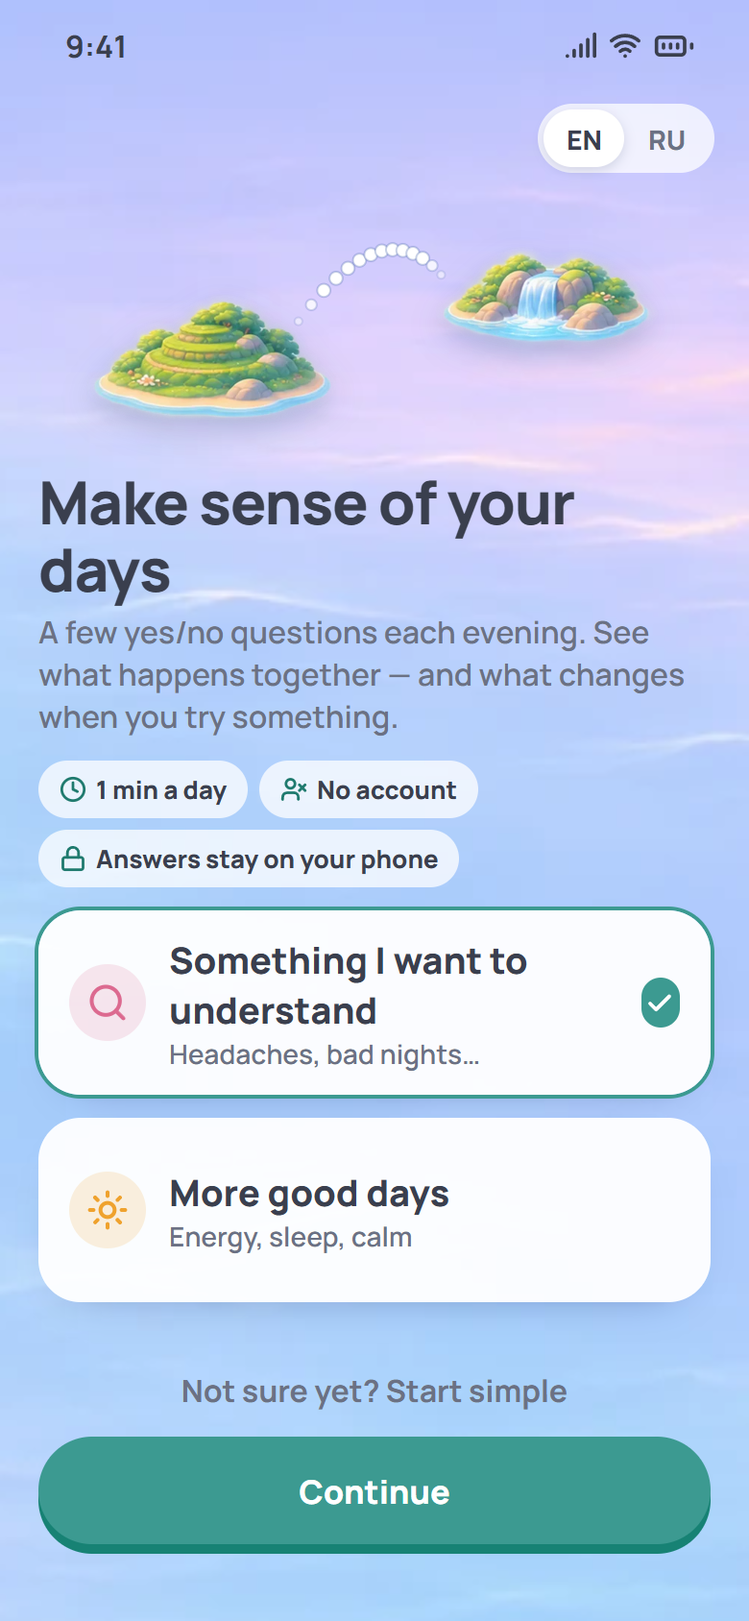
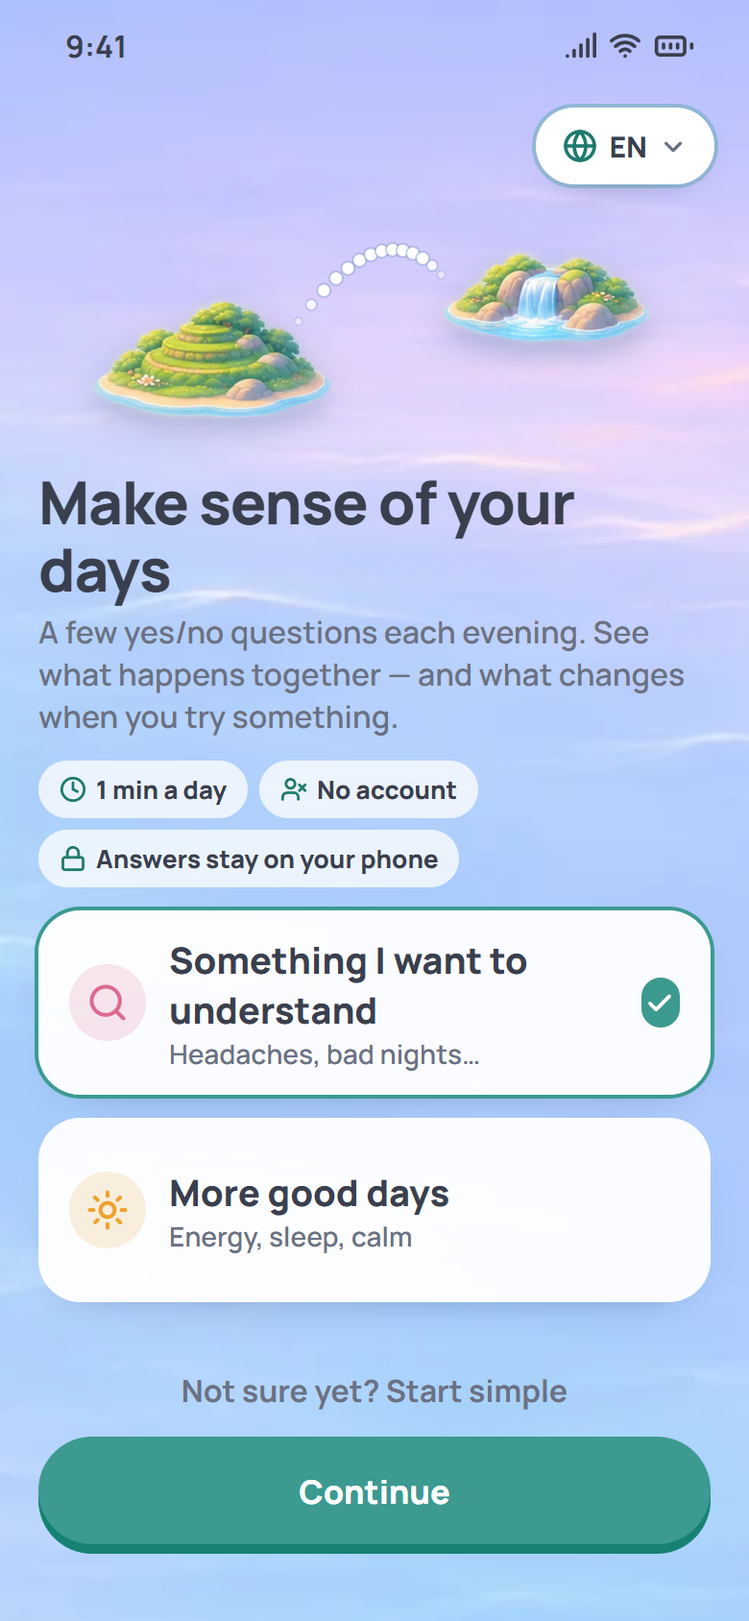
English by default outside Russia; a globe button for languages (v75)
Her note: new installs outside Russia start in English; Russian only on a
Russian-language phone in Russia (a region RU in its locales, or a Russian time
zone). People already using the app keep the phone's language, so nothing
flips after the update. The first screen shows one softly ringed globe
button 'EN'; the list (English, Русский) opens only on tap. v6 boards and
the GPT folder show the same button.

Changed region(s): [[0.7077, 0.0616, 0.9538, 0.1232]]

diff --git a/src/components/OnboardingV2.tsx b/src/components/OnboardingV2.tsx
@@ -5,10 +5,10 @@
 //   that day's questions → first light → who sails with you → Today
 import { useMemo, useState } from "react";
 import { useTranslation } from "react-i18next";
-import { ArrowLeft, ArrowRight, Check, Link2, MoonStar, Repeat, Sun, UserRound } from "lucide-react";
+import { ArrowLeft, ArrowRight, Check, ChevronDown, Globe, Link2, MoonStar, Repeat, Sun, UserRound } from "lucide-react";
 import { cn } from "@/lib/utils";
 import { haptics } from "@/lib/haptics";
-import { getLanguage, setLanguage } from "@/lib/i18n";
+import { getLanguage, setLanguage, SUPPORTED_LANGUAGES } from "@/lib/i18n";
 import { AVATARS, DEFAULT_AVATAR, avatarUrl, getAvatar, setAvatar } from "@/lib/avatar";
 import { art, artOf } from "@/lib/globeArt";
 import { islandName, islandOf, mapPicFor, type IslandId } from "@/lib/islands";
@@ -36,16 +36,31 @@ const mapPics = (name: string): [string, string] => [mapPicFor(name, false), map
 export const WelcomeScreen = ({ onStart }: { onStart: () => void }) => {
   const { t } = useTranslation();
   const [lang, setLang] = useState(getLanguage() === "ru" ? "ru" : "en");
-  const pick = (l: "en" | "ru") => { haptics.tap(); setLang(l); setLanguage(l); };
+  const [langOpen, setLangOpen] = useState(false);
+  const pick = (l: "en" | "ru") => { haptics.tap(); setLang(l); setLanguage(l); setLangOpen(false); };
   const who = avatarUrl(getAvatar() ?? DEFAULT_AVATAR);
   return (
     <Page>
-      <div className="flex justify-end pt-4">
-        <div className="seg" role="group" aria-label="Language">
-          {(["en", "ru"] as const).map((l) => (
-            <button key={l} type="button" onClick={() => pick(l)} aria-pressed={lang === l} className={cn("chip", lang === l && "is-on")}>{l.toUpperCase()}</button>
-          ))}
-        </div>
+      {/* the language: one globe button, lit softly so it's noticed; the list only on tap
+          (her note, Nov 6 2026: "не показывать, что есть ещё русский — только по кнопке") */}
+      <div className="relative flex justify-end pt-4">
+        <button type="button" onClick={() => { haptics.tap(); setLangOpen((v) => !v); }} aria-haspopup="listbox" aria-expanded={langOpen} aria-label={t("settings.language")}
+          className="lang-btn surface flex h-10 items-center gap-1.5 rounded-full px-3.5 text-[15px] font-bold">
+          <Globe className="h-[18px] w-[18px] text-[hsl(var(--coin-teal))]" strokeWidth={2.4} />
+          {lang.toUpperCase()}
+          <ChevronDown className={cn("h-4 w-4 text-muted-foreground transition-transform", langOpen && "rotate-180")} strokeWidth={2.6} />
+        </button>
+        {langOpen && (
+          <div role="listbox" aria-label={t("settings.language")} className="absolute right-0 top-[60px] z-20 w-[200px] bg-white dark:bg-[hsl(var(--surface))] overflow-hidden rounded-[18px] py-1 shadow-[0_14px_34px_-14px_rgba(20,40,90,.5)] animate-fade-in">
+            {SUPPORTED_LANGUAGES.map((l) => (
+              <button key={l.code} type="button" role="option" aria-selected={lang === l.code} onClick={() => pick(l.code)}
+                className="flex h-12 w-full items-center justify-between px-4 text-left text-[16px] font-bold">
+                {l.native}
+                {lang === l.code && <Check className="h-4 w-4 text-[hsl(var(--coin-teal))]" strokeWidth={3} />}
+              </button>
+            ))}
+          </div>
+        )}
       </div>
       <div className="relative mx-auto mt-6 h-[300px] w-full max-w-[360px]" aria-hidden="true">
         <Pic src={isle("11_sakura")} className="onb-float absolute left-[2%] top-[6%] w-[40%]" />

diff --git a/src/lib/i18n.ts b/src/lib/i18n.ts
@@ -23,6 +23,50 @@ export const SUPPORTED_LANGUAGES: { code: SupportedLanguage; name: string; nativ
 ];
 
 const detector = new LanguageDetector();
+
+// Russia's time zones (IANA), to tell a phone in Russia from a Russian-language
+// phone elsewhere.
+const RU_ZONES = new Set([
+  "Europe/Moscow", "Europe/Kaliningrad", "Europe/Samara", "Europe/Volgograd", "Europe/Kirov", "Europe/Astrakhan",
+  "Europe/Saratov", "Europe/Ulyanovsk", "Asia/Yekaterinburg", "Asia/Omsk", "Asia/Novosibirsk", "Asia/Barnaul",
+  "Asia/Tomsk", "Asia/Novokuznetsk", "Asia/Krasnoyarsk", "Asia/Irkutsk", "Asia/Chita", "Asia/Yakutsk", "Asia/Khandyga",
+  "Asia/Vladivostok", "Asia/Ust-Nera", "Asia/Magadan", "Asia/Sakhalin", "Asia/Srednekolymsk", "Asia/Kamchatka", "Asia/Anadyr",
+]);
+/** The phone looks like it is in Russia: a region RU in its locales, or a Russian time zone. */
+export const phoneInRussia = (): boolean => {
+  try {
+    const locales = [...(navigator.languages ?? []), navigator.language, Intl.DateTimeFormat().resolvedOptions().locale].filter(Boolean);
+    if (locales.some((l) => /[-_]RU\b/i.test(l))) return true;
+    return RU_ZONES.has(Intl.DateTimeFormat().resolvedOptions().timeZone);
+  } catch {
+    return false;
+  }
+};
+/** Someone who already used the app keeps the old rule (the phone's language), so
+ *  nobody's language flips after an update. */
+const hasHistory = (): boolean => {
+  try {
+    const t = localStorage.getItem("memap_trackers");
+    return !!t && t !== "[]";
+  } catch {
+    return false;
+  }
+};
+// First language for a new install (her note, Nov 6 2026): English everywhere, except
+// a Russian-language phone in Russia. Other languages are behind the globe button.
+detector.addDetector({
+  name: "memapRegion",
+  lookup() {
+    try {
+      const ru = (navigator.language || "").toLowerCase().startsWith("ru");
+      if (hasHistory()) return ru ? "ru" : "en";
+      return ru && phoneInRussia() ? "ru" : "en";
+    } catch {
+      return "en";
+    }
+  },
+  cacheUserLanguage() {},
+});
 detector.addDetector({
   name: "memapStorage",
   lookup() {
@@ -77,7 +121,7 @@ void i18n
     // languages and for strings without bracket patterns.
     postProcess: ["polishRu"],
     detection: {
-      order: ["memapStorage", "navigator"],
+      order: ["memapStorage", "memapRegion"],
       // No auto-cache on detection. We only want LANGUAGE_KEY + EXPLICIT_LANGUAGE_KEY
       // written when the user explicitly picks via setLanguage().
       caches: [],

diff --git a/src/index.css b/src/index.css
@@ -2374,6 +2374,8 @@ html[data-ui="new"][data-theme="aurora-light"] { --foreground: 226 15% 27%; --mu
 html[data-ui="new"][data-theme="aurora-light"] { --strong: 348 70% 69%; --strong-foreground: 0 0% 100%; --balanced: 146 45% 60%; --balanced-foreground: 150 50% 18%; --data-a: 232 62% 62%; --data-b: 36 86% 56%; }
 html[data-ui="new"][data-theme="aurora"] { --strong: 348 78% 73%; --strong-foreground: 348 60% 14%; --balanced: 146 48% 58%; --balanced-foreground: 150 60% 10%; --data-a: 232 85% 74%; --data-b: 38 90% 62%; }
 /* a link's sign on its route: opens the link card (LinkSheet) */
+/* the language button on the first screen: a soft teal ring so it's noticed (Nov 6 2026) */
+.lang-btn { box-shadow: 0 0 0 2px hsl(var(--coin-teal) / 0.35), 0 8px 18px -12px rgba(20, 40, 90, .45); }
 .link-chip { width: 34px; height: 34px; border-radius: 17px; background: #fff; color: hsl(var(--data-a)); display: flex; align-items: center; justify-content: center;
   box-shadow: 0 6px 14px -8px rgba(20, 50, 90, .55); transition: transform .12s ease-out; }
 button.link-chip:active { transform: scale(.92); }

diff --git a/VERSIONS.md b/VERSIONS.md
@@ -8,7 +8,7 @@
 | **Сейчас в App Store (1.7.9)** | ветка `main` и метка `v1.7.9-live` (к ней можно откатиться) | — |
 | 1.8.0 (не собиралась) | ветка `release/1.8.0` | — |
 | **Розовая версия со стикерами** (архив от 31 окт. 2026) | метка `archive/sticker-diary-2026-10-31`, ветка `design/malu-world` | https://claude.ai/artifact/NFmgCod55uLGoCq77j4stD — не перезаписываем |
-| **Новая версия Aurora** (в работе) | ветка `design/aurora-ux`; снимки — метки `aurora/v16` … `aurora/v74`… (v25 = первая сборка 1.8.0 для TestFlight; v26 = новый глобус: её нарисованная планета и острова; v27 = плоская карта на её планете с новыми островами и следами, Today на её море с огоньками и лодкой; v28 = звуки выключены (вместо них вибрация), путь листается ровно с одним морем, зум глобуса щипком, новые вопросы к пройденному острову — отдельным шагом у лодки; v29 = путь как у Duolingo: фонарики змейкой без подписей, пузырь Start над её шагом, карточка по нажатию, обычная прокрутка; v30 = огоньки без значков, все круглые; v31 = правило «один огонёк = один вечер»: 7 огоньков и сундук в неделе, части вечера — кольцом и списком в карточке; фон Today снова стоит на месте; v32 = фон Today как на карте (открытое море её планеты), без белой полоски между огоньками, у каждого огонька подпись; v33 = исправлен вылет глобуса, шаги снова кружками со значками (объёмные, как Duolingo), отчёт вместо сундука, связи пунктиром, новые цвета календаря и графиков, первые и пустые экраны в новом стиле; v34 = все острова растут по 4 стадиям от вечеров, на пути сам появляется «остров вырос», в карточке острова его стадия; v35 = нажатие на пунктир открывает карточку связи: что с чем, k из n раз, честная строка, график; v36 = погода по одному правилу с маяками и с объяснением «почему» в карточке острова; v37 = вкладка World вместо Map, пропущенный день — кнопкой сбоку, не шагом на пути; v38 = лестница роста в карточке острова: все 4 стадии, во что он вырастет; v39 = Action points: сначала действие, «I'll try / Show / Not for me», «I'll try» запускает тест на неделю, «still taking shape» вместо «all calm» без данных; один набор кнопок и переключателей во всех экранах, без зелёного фона и золотых рамок; v40 = Notes на том же море, что Today, без плашки за заголовком, заметки белыми карточками; одна шкала у точки действия в списке, на карточке и в «Show», совпадает с тёмными точками дней; v41 = «день — это кружок»: квадратики и полоски дней стали кружками, цвета по одному правилу (индиго — тяжёлый, лавандовый — спокойный, серый — без ответа, золото — вечер сделан), заметка — значком; исправлен переключатель Yes/No в карточке прошлого дня; v42 = сокровища на островах (карта и глобус), следующее — бледным, «Сокровища здесь» в карточке острова; в отчёте связь вместо моста и рост островов по стадиям; v43 = проверка трёх сценариев (тяжёлая неделя, 4 дня без ответов, день↔ночь): на карточке вопроса остров как на карте, заголовок прошлого дня в одну строку, подсказка глобуса читается ночью; v44 = шрифт Manrope вместо DM Sans + Onest и текст мягким графитом; v45 = у «Разгрузи голову» и теста своя карточка (было «0 answers»), карточка шага непрозрачная; v46 = когда вечер пройден, на пути карточка «Ты сегодня молодец!» с «Полопать пузыри» и «Найти новые вопросы»; v47 = звуки вернулись только в пузырях, с их кнопкой звука; v48 = «Ты сегодня молодец!» не висит на пути, а открывается по нажатию на последний кружок дня; v49 = старый стиль убран из окон «Заметка», «Добавить вопрос», «Свой вопрос», «Настройки»; общая кнопка и основной бирюзовый как в нашем наборе; v50 = онбординг v2 в приложении: «Что бывает перед лучшими днями и самыми тяжёлыми?», развилка, двери «Плохие ночи» и 7 хороших дней, 6 новых вопросов, обещание её словами и первый остров из облака, первый огонёк, «Кто плывёт с тобой?»; на ссылке кнопка «Start as a new user» начинает с нуля; v51 = на карточках полные вопросы «Did you…?» вместо «A warm moment with your partner?»; v52 = Today всё время говорит, что дальше: в первый день 7 вопросов (к вопросам двери ещё 3 примера из других частей жизни), вопросы, добавленные днём, — один шаг «Новые вопросы» у лодки (лодку больше не отбрасывает назад), закрытая без текста заметка = «не сегодня» и больше не предлагается, последний кружок дня «На сегодня всё» загорается, когда всё пройдено: «Полопать пузыри», «Найти новые вопросы», «Посмотреть связи» (карта World), «Календарь»; v53 = кнопка календаря в конце дня называет то, что там увидишь, по её теме: «Дни с мигренью», «Плохие ночи», «Дни с энергией»… (без темы — «Твои дни в календаре»), календарь открывается на этом вопросе; v54 = в первый день после вопросов три шага «что даёт приложение»: «Твои связи», «Дни с мигренью» (календарь), «Твои недели» (график) — в каждом пример с пометкой «Пример», одна строка и «у тебя: 1 из 10 вечеров» кружками; заданий в этот день нет; в «На сегодня всё» связи и календарь появляются, только когда там что-то есть (первая связь; 7 дней); плюсик в «Добавить вопрос» работает (вся строка — одна кнопка); v55 = флажок, маяк и сокровища стоят на земле острова с мягкой тенью (свои точки на каждой из 14 картинок), шар приземлился на остров, радуга за островом, самолёт и искорки маленькие в небе; v56 = на «Я» флажок на траве у кипариса, искорки на арке, шар меньше и впереди; на Body маяк на верхушке; v57 = каждая стадия острова заметно больше предыдущей — на карте, глобусе и в лестнице роста (первая больше не кажется крупнее второй); v58 = в первую неделю все вопросы одним шагом «Твои вопросы»; вместо трёх всплывающих окон — один шаг «Осмотрись»: экскурсия по настоящим страницам (карта World, связи, календарь, график, точки действия, Notes, профиль), место подсвечено, рядом пример-инфографика; вопрос «главное дело» стал понятнее; v59 = рамка экскурсии на каждой остановке появляется заново, а не переезжает (на телефоне плавнее); v60 = экскурсия без рывков: затемнение держится всё время, старая карточка гаснет, страница меняется под затемнением, место открывается, и только потом рядом проявляется новая карточка; Map | Globe после экскурсии возвращается как было; v61 = все сокровища из её пака: к 9 прежним добавлены луна (7 вечеров подряд), сундук (первый отчёт), дзен-камни (спокойная неделя), лаванда (пузыри 7 дней), домик (остров вырос полностью), палатка (30 дней), чемодан (100 дней) и сад — дерево за каждый пройденный тест; у каждого острова 8 мест на земле; на острове не больше 3 сокровищ, остальные на полке; v62 = экскурсия показывает точно: «Твой мир» — её остров (и растёт он же), «Связи» — от её острова к ближайшему по точке рисуется пунктир, значок связи и счётчик «4 из 5 раз»; все примеры оживают: стадии острова, календарь кружок за кружком, линия графика, маяк загорается, заметка печатается, сокровища по одному; карточка сама меряет высоту и встаёт, где больше места; v63 = картинки в экскурсии появляются плавно, без пружинки; v64 = момент первой связи: в день, когда нашлась первая связь, на Today шаг «Первая связь!», по нажатию (или просто зайдя на World) — на её карте светятся два острова, между ними по точке рисуется пунктир, значок связи, счёт «k из n раз», загорается фотоаппарат; потом карточка с связью её словами и «Открыть» (карточка связи) / «Закрыть»; один раз; у тех, у кого связи были раньше, не показывается; на ссылке для телефона кнопка «Show first link»; v65 = в «На сегодня всё» следующее сокровище: самое близкое к получению, сколько уже есть (кружки, сегодняшний загорается) и «Завтра: 2 из 7» / «Завтра — твоё!» для тех, что даются за вечера; нажатие открывает полку сокровищ; v66 = вечерние напоминания говорят, сколько осталось: «Остров «Здоровье» вырастет через 2 вечера», «До сокровища «Воздушный шар» — 6 вечеров», «Первые связи — примерно через 9 вечеров», «Отчёт недели — через 4 вечера», ниже «Сегодня · 7 вопросов · ~1 мин»; первое напоминание — самое близкое, дальше через день по очереди; счёт всегда «сколько осталось сейчас», поэтому верен до следующего ответа, а ответ всё пересчитывает; только на телефоне (в браузере уведомлений нет), картинка — макет 56; v67 = «Отчёт для специалиста» (PDF: для кого, темы, период, заметки; дни кружками, недели, что бывало вместе), «Поделиться моим миром» (картинка для сторис, только острова и числа), остров растёт на глазах, отчёт недели заполняется вживую, «Движение» теперь на острове «Тело и привычки», «Вернуть старый вид» на первом экране Настроек (и повторное приглашение через 14 дней), 20 новых событий Mixpanel; v68 = отчёт в двух видах: «Для специалиста» — с названием и иконкой MeMap, имя по желанию, сводка главного вопроса (сколько раз, в неделю, первая → вторая половина, последний раз, самая длинная серия «нет»), календарь по месяцам с числами, все вопросы с датами «да», дни кружками с датами, по неделям, что бывало вместе, заметки; «Для себя» — острова на её море, календарь с сокровищами в дни, когда получены, острова со стадиями и спокойными днями, связи с картинками островов; v69 = связи говорят настоящими ответами: «После дня без «Был(а) на свежем воздухе» на следующий день было «Чувствовал(а) тревогу»», «В дни с тревогой не было «Спал(а) достаточно»»; связи «без» впервые появляются на карте, в карточке острова, в первой связи и в отчёте; под каждой — «В остальные дни — k из n»; странные связи вроде «хорошее → плохое» показываются, только если повторились много раз; v70 = цвета по смыслу: тяжёлый день красноватый, хороший или спокойный — зеленоватый (календарь, точки дня, связи, точки действия, отчёт «для себя»), день в календаре решает главный вопрос; прошлые дни: кнопка «Заполнить: четверг» внизу Today и открытая полоска 7 дней в вечерней карточке с отметками отвеченных; в первый день до 17:00 первый шаг — «Вопросы за вчера»; v71 = новая группа вопросов «Увлечения и развитие» (книги, языки, курсы, творчество, подкасты, навыки, хобби — раньше лежали в «Больших решениях») и 9 новых вопросов: лекарства по плану, дневной сон, экран перед сном, 7000+ шагов, овощи или фрукты, стресс, медитация, «заметил(а) хорошее», хобби; v72 = вопросы-желания и решения («Хотелось уволиться», «Хотелось ребёнка», «Думал(а) уехать») рисуются нейтральным синим, а не красным и не зелёным, и не считаются тяжёлыми днями; v73 = красный стал розоватым, из нашей палитры; календарь на карте мира и в экскурсии — настоящий календарь: дни недели сверху, с понедельника, число в каждом кружке, сегодня обведено; v74 = маленький календарь на карте мира снова просто точки, без чисел (её «там даты не нужны»), но по дням недели и с обведённым сегодня; числа остались в большом календаре и в примере экскурсии) (номер = версия ссылки для телефона) | https://claude.ai/artifact/5RQUsU2CcaRKKHyoowZpaF — каждая версия остаётся в истории ссылки |
+| **Новая версия Aurora** (в работе) | ветка `design/aurora-ux`; снимки — метки `aurora/v16` … `aurora/v75`… (v25 = первая сборка 1.8.0 для TestFlight; v26 = новый глобус: её нарисованная планета и острова; v27 = плоская карта на её планете с новыми островами и следами, Today на её море с огоньками и лодкой; v28 = звуки выключены (вместо них вибрация), путь листается ровно с одним морем, зум глобуса щипком, новые вопросы к пройденному острову — отдельным шагом у лодки; v29 = путь как у Duolingo: фонарики змейкой без подписей, пузырь Start над её шагом, карточка по нажатию, обычная прокрутка; v30 = огоньки без значков, все круглые; v31 = правило «один огонёк = один вечер»: 7 огоньков и сундук в неделе, части вечера — кольцом и списком в карточке; фон Today снова стоит на месте; v32 = фон Today как на карте (открытое море её планеты), без белой полоски между огоньками, у каждого огонька подпись; v33 = исправлен вылет глобуса, шаги снова кружками со значками (объёмные, как Duolingo), отчёт вместо сундука, связи пунктиром, новые цвета календаря и графиков, первые и пустые экраны в новом стиле; v34 = все острова растут по 4 стадиям от вечеров, на пути сам появляется «остров вырос», в карточке острова его стадия; v35 = нажатие на пунктир открывает карточку связи: что с чем, k из n раз, честная строка, график; v36 = погода по одному правилу с маяками и с объяснением «почему» в карточке острова; v37 = вкладка World вместо Map, пропущенный день — кнопкой сбоку, не шагом на пути; v38 = лестница роста в карточке острова: все 4 стадии, во что он вырастет; v39 = Action points: сначала действие, «I'll try / Show / Not for me», «I'll try» запускает тест на неделю, «still taking shape» вместо «all calm» без данных; один набор кнопок и переключателей во всех экранах, без зелёного фона и золотых рамок; v40 = Notes на том же море, что Today, без плашки за заголовком, заметки белыми карточками; одна шкала у точки действия в списке, на карточке и в «Show», совпадает с тёмными точками дней; v41 = «день — это кружок»: квадратики и полоски дней стали кружками, цвета по одному правилу (индиго — тяжёлый, лавандовый — спокойный, серый — без ответа, золото — вечер сделан), заметка — значком; исправлен переключатель Yes/No в карточке прошлого дня; v42 = сокровища на островах (карта и глобус), следующее — бледным, «Сокровища здесь» в карточке острова; в отчёте связь вместо моста и рост островов по стадиям; v43 = проверка трёх сценариев (тяжёлая неделя, 4 дня без ответов, день↔ночь): на карточке вопроса остров как на карте, заголовок прошлого дня в одну строку, подсказка глобуса читается ночью; v44 = шрифт Manrope вместо DM Sans + Onest и текст мягким графитом; v45 = у «Разгрузи голову» и теста своя карточка (было «0 answers»), карточка шага непрозрачная; v46 = когда вечер пройден, на пути карточка «Ты сегодня молодец!» с «Полопать пузыри» и «Найти новые вопросы»; v47 = звуки вернулись только в пузырях, с их кнопкой звука; v48 = «Ты сегодня молодец!» не висит на пути, а открывается по нажатию на последний кружок дня; v49 = старый стиль убран из окон «Заметка», «Добавить вопрос», «Свой вопрос», «Настройки»; общая кнопка и основной бирюзовый как в нашем наборе; v50 = онбординг v2 в приложении: «Что бывает перед лучшими днями и самыми тяжёлыми?», развилка, двери «Плохие ночи» и 7 хороших дней, 6 новых вопросов, обещание её словами и первый остров из облака, первый огонёк, «Кто плывёт с тобой?»; на ссылке кнопка «Start as a new user» начинает с нуля; v51 = на карточках полные вопросы «Did you…?» вместо «A warm moment with your partner?»; v52 = Today всё время говорит, что дальше: в первый день 7 вопросов (к вопросам двери ещё 3 примера из других частей жизни), вопросы, добавленные днём, — один шаг «Новые вопросы» у лодки (лодку больше не отбрасывает назад), закрытая без текста заметка = «не сегодня» и больше не предлагается, последний кружок дня «На сегодня всё» загорается, когда всё пройдено: «Полопать пузыри», «Найти новые вопросы», «Посмотреть связи» (карта World), «Календарь»; v53 = кнопка календаря в конце дня называет то, что там увидишь, по её теме: «Дни с мигренью», «Плохие ночи», «Дни с энергией»… (без темы — «Твои дни в календаре»), календарь открывается на этом вопросе; v54 = в первый день после вопросов три шага «что даёт приложение»: «Твои связи», «Дни с мигренью» (календарь), «Твои недели» (график) — в каждом пример с пометкой «Пример», одна строка и «у тебя: 1 из 10 вечеров» кружками; заданий в этот день нет; в «На сегодня всё» связи и календарь появляются, только когда там что-то есть (первая связь; 7 дней); плюсик в «Добавить вопрос» работает (вся строка — одна кнопка); v55 = флажок, маяк и сокровища стоят на земле острова с мягкой тенью (свои точки на каждой из 14 картинок), шар приземлился на остров, радуга за островом, самолёт и искорки маленькие в небе; v56 = на «Я» флажок на траве у кипариса, искорки на арке, шар меньше и впереди; на Body маяк на верхушке; v57 = каждая стадия острова заметно больше предыдущей — на карте, глобусе и в лестнице роста (первая больше не кажется крупнее второй); v58 = в первую неделю все вопросы одним шагом «Твои вопросы»; вместо трёх всплывающих окон — один шаг «Осмотрись»: экскурсия по настоящим страницам (карта World, связи, календарь, график, точки действия, Notes, профиль), место подсвечено, рядом пример-инфографика; вопрос «главное дело» стал понятнее; v59 = рамка экскурсии на каждой остановке появляется заново, а не переезжает (на телефоне плавнее); v60 = экскурсия без рывков: затемнение держится всё время, старая карточка гаснет, страница меняется под затемнением, место открывается, и только потом рядом проявляется новая карточка; Map | Globe после экскурсии возвращается как было; v61 = все сокровища из её пака: к 9 прежним добавлены луна (7 вечеров подряд), сундук (первый отчёт), дзен-камни (спокойная неделя), лаванда (пузыри 7 дней), домик (остров вырос полностью), палатка (30 дней), чемодан (100 дней) и сад — дерево за каждый пройденный тест; у каждого острова 8 мест на земле; на острове не больше 3 сокровищ, остальные на полке; v62 = экскурсия показывает точно: «Твой мир» — её остров (и растёт он же), «Связи» — от её острова к ближайшему по точке рисуется пунктир, значок связи и счётчик «4 из 5 раз»; все примеры оживают: стадии острова, календарь кружок за кружком, линия графика, маяк загорается, заметка печатается, сокровища по одному; карточка сама меряет высоту и встаёт, где больше места; v63 = картинки в экскурсии появляются плавно, без пружинки; v64 = момент первой связи: в день, когда нашлась первая связь, на Today шаг «Первая связь!», по нажатию (или просто зайдя на World) — на её карте светятся два острова, между ними по точке рисуется пунктир, значок связи, счёт «k из n раз», загорается фотоаппарат; потом карточка с связью её словами и «Открыть» (карточка связи) / «Закрыть»; один раз; у тех, у кого связи были раньше, не показывается; на ссылке для телефона кнопка «Show first link»; v65 = в «На сегодня всё» следующее сокровище: самое близкое к получению, сколько уже есть (кружки, сегодняшний загорается) и «Завтра: 2 из 7» / «Завтра — твоё!» для тех, что даются за вечера; нажатие открывает полку сокровищ; v66 = вечерние напоминания говорят, сколько осталось: «Остров «Здоровье» вырастет через 2 вечера», «До сокровища «Воздушный шар» — 6 вечеров», «Первые связи — примерно через 9 вечеров», «Отчёт недели — через 4 вечера», ниже «Сегодня · 7 вопросов · ~1 мин»; первое напоминание — самое близкое, дальше через день по очереди; счёт всегда «сколько осталось сейчас», поэтому верен до следующего ответа, а ответ всё пересчитывает; только на телефоне (в браузере уведомлений нет), картинка — макет 56; v67 = «Отчёт для специалиста» (PDF: для кого, темы, период, заметки; дни кружками, недели, что бывало вместе), «Поделиться моим миром» (картинка для сторис, только острова и числа), остров растёт на глазах, отчёт недели заполняется вживую, «Движение» теперь на острове «Тело и привычки», «Вернуть старый вид» на первом экране Настроек (и повторное приглашение через 14 дней), 20 новых событий Mixpanel; v68 = отчёт в двух видах: «Для специалиста» — с названием и иконкой MeMap, имя по желанию, сводка главного вопроса (сколько раз, в неделю, первая → вторая половина, последний раз, самая длинная серия «нет»), календарь по месяцам с числами, все вопросы с датами «да», дни кружками с датами, по неделям, что бывало вместе, заметки; «Для себя» — острова на её море, календарь с сокровищами в дни, когда получены, острова со стадиями и спокойными днями, связи с картинками островов; v69 = связи говорят настоящими ответами: «После дня без «Был(а) на свежем воздухе» на следующий день было «Чувствовал(а) тревогу»», «В дни с тревогой не было «Спал(а) достаточно»»; связи «без» впервые появляются на карте, в карточке острова, в первой связи и в отчёте; под каждой — «В остальные дни — k из n»; странные связи вроде «хорошее → плохое» показываются, только если повторились много раз; v70 = цвета по смыслу: тяжёлый день красноватый, хороший или спокойный — зеленоватый (календарь, точки дня, связи, точки действия, отчёт «для себя»), день в календаре решает главный вопрос; прошлые дни: кнопка «Заполнить: четверг» внизу Today и открытая полоска 7 дней в вечерней карточке с отметками отвеченных; в первый день до 17:00 первый шаг — «Вопросы за вчера»; v71 = новая группа вопросов «Увлечения и развитие» (книги, языки, курсы, творчество, подкасты, навыки, хобби — раньше лежали в «Больших решениях») и 9 новых вопросов: лекарства по плану, дневной сон, экран перед сном, 7000+ шагов, овощи или фрукты, стресс, медитация, «заметил(а) хорошее», хобби; v72 = вопросы-желания и решения («Хотелось уволиться», «Хотелось ребёнка», «Думал(а) уехать») рисуются нейтральным синим, а не красным и не зелёным, и не считаются тяжёлыми днями; v73 = красный стал розоватым, из нашей палитры; календарь на карте мира и в экскурсии — настоящий календарь: дни недели сверху, с понедельника, число в каждом кружке, сегодня обведено; v74 = маленький календарь на карте мира снова просто точки, без чисел (её «там даты не нужны»), но по дням недели и с обведённым сегодня; числа остались в большом календаре и в примере экскурсии; v75 = язык: новым пользователям вне России — английский по умолчанию (русский — только если телефон в России и на русском), у тех, кто уже пользуется, ничего не меняется; на первом экране вместо EN | RU кнопка-глобус «EN», список языков — только по нажатию) (номер = версия ссылки для телефона) | https://claude.ai/artifact/5RQUsU2CcaRKKHyoowZpaF — каждая версия остаётся в истории ссылки |
 
 Внутри новой версии есть «классический режим» (папка `src/classic/`): те, кто начал пользоваться до 1.8.0, видят прежние экраны 1.7.9 со всеми своими ответами.
 

diff --git a/marketing/aurora-light-ux/73-onboarding-v6-variants/for-gpt/GPT-BRIEF-2.md b/marketing/aurora-light-ux/73-onboarding-v6-variants/for-gpt/GPT-BRIEF-2.md
@@ -45,6 +45,7 @@
 12. **Энергия:** «Did you have enough energy for your day?».
 13. **Онбординг днём:** выбор «Tonight — today» или «Yesterday». Все ответы первого раза — за один день.
 14. **«Not sure» — пустой ответ, а не «нет»,** в подсчётах не участвует. Так было и раньше в приложении.
+15. **Язык.** Новым пользователям вне России — английский по умолчанию. На первом экране кнопка-глобус «EN»: список языков (в том числе русский) появляется только по нажатию.
 
 ## Что оставили вопреки первому разбору — и почему
 
